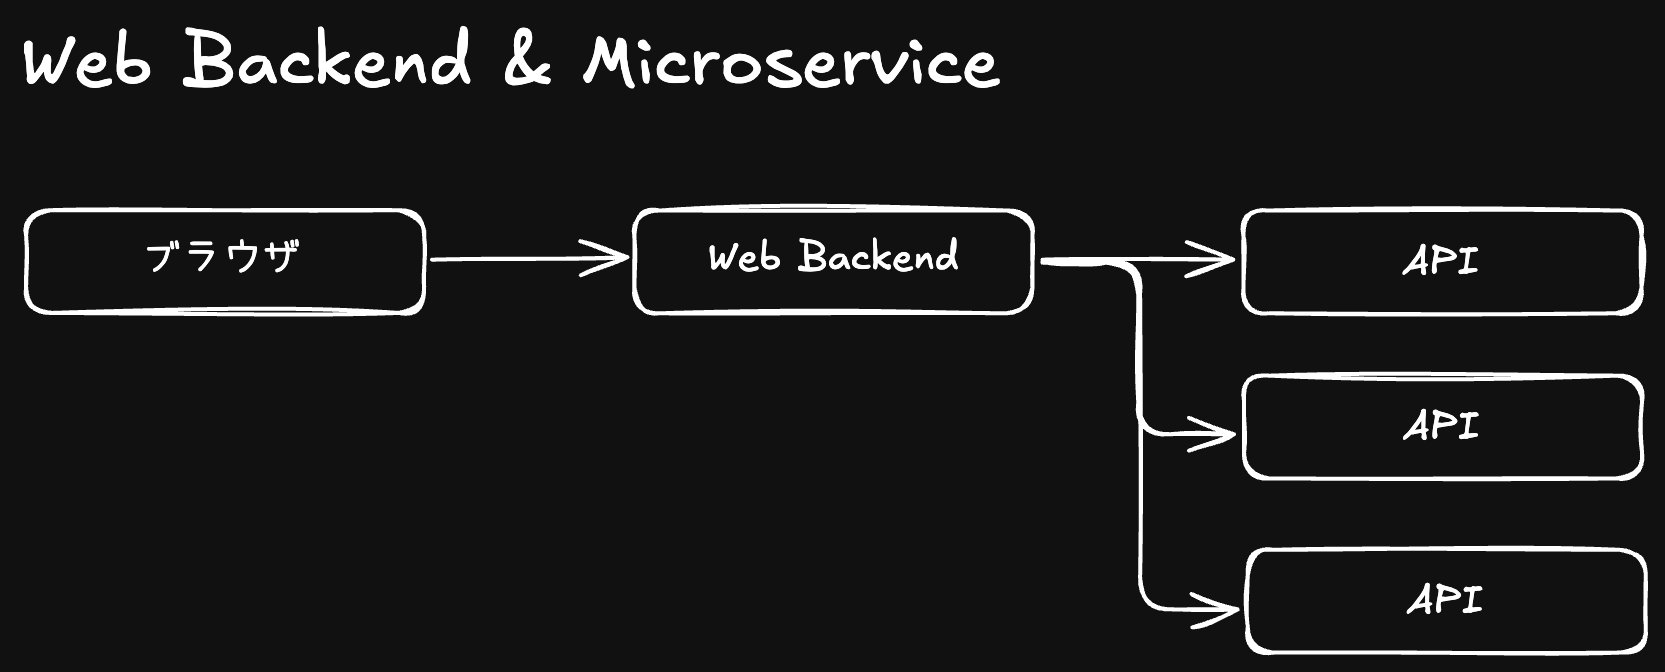
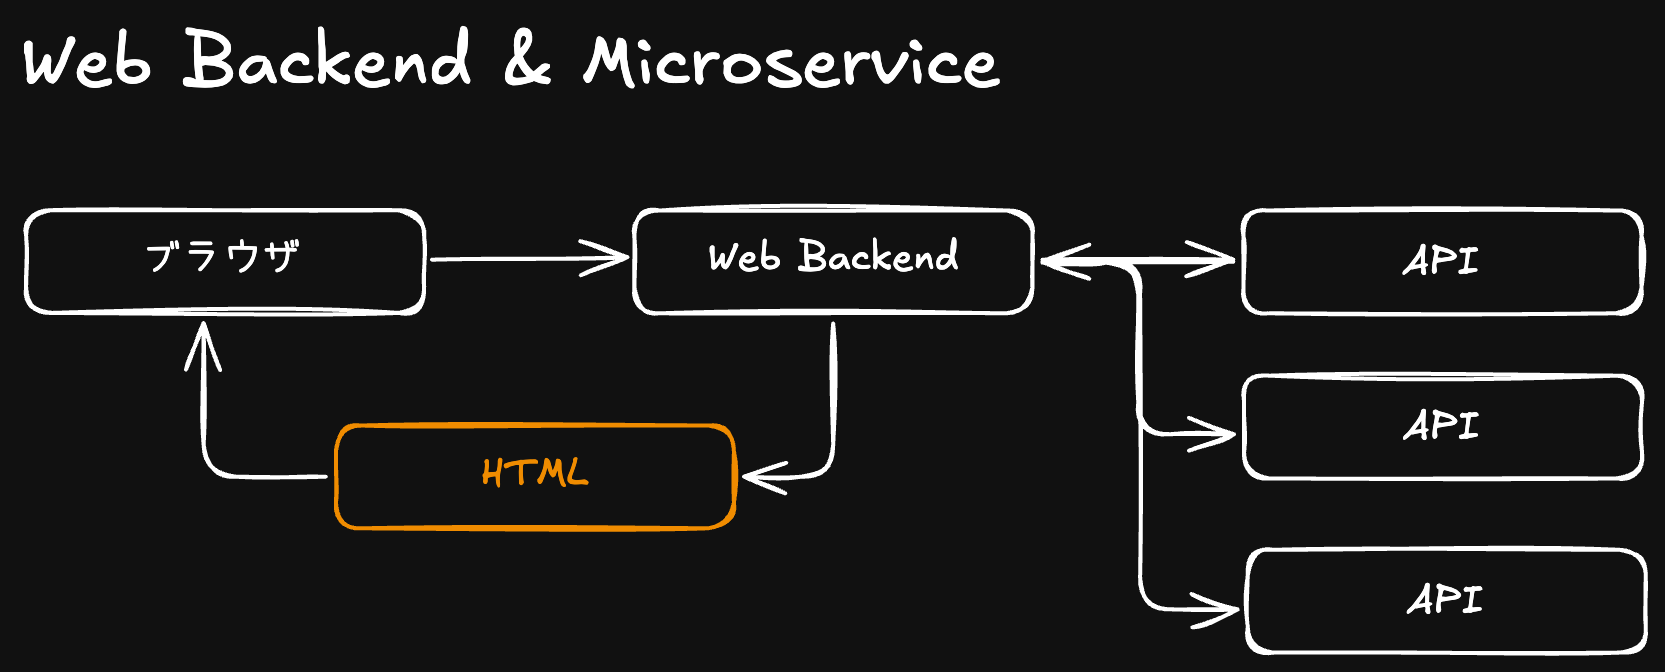
図の修正

diff --git a/README.md b/README.md
@@ -7,7 +7,7 @@
 
 ### Excalidraw
 
-https://excalidraw.com/#json=-D9Yw-oMIzviGrT0yl_rO,RXS71ZdAOR1BGmAPf3wJ2A
+https://excalidraw.com/#json=6frhSg_7wArsGJQtZGiLM,ss4jflGW2-UeZh-sfp841Q
 
 ## Event
 
